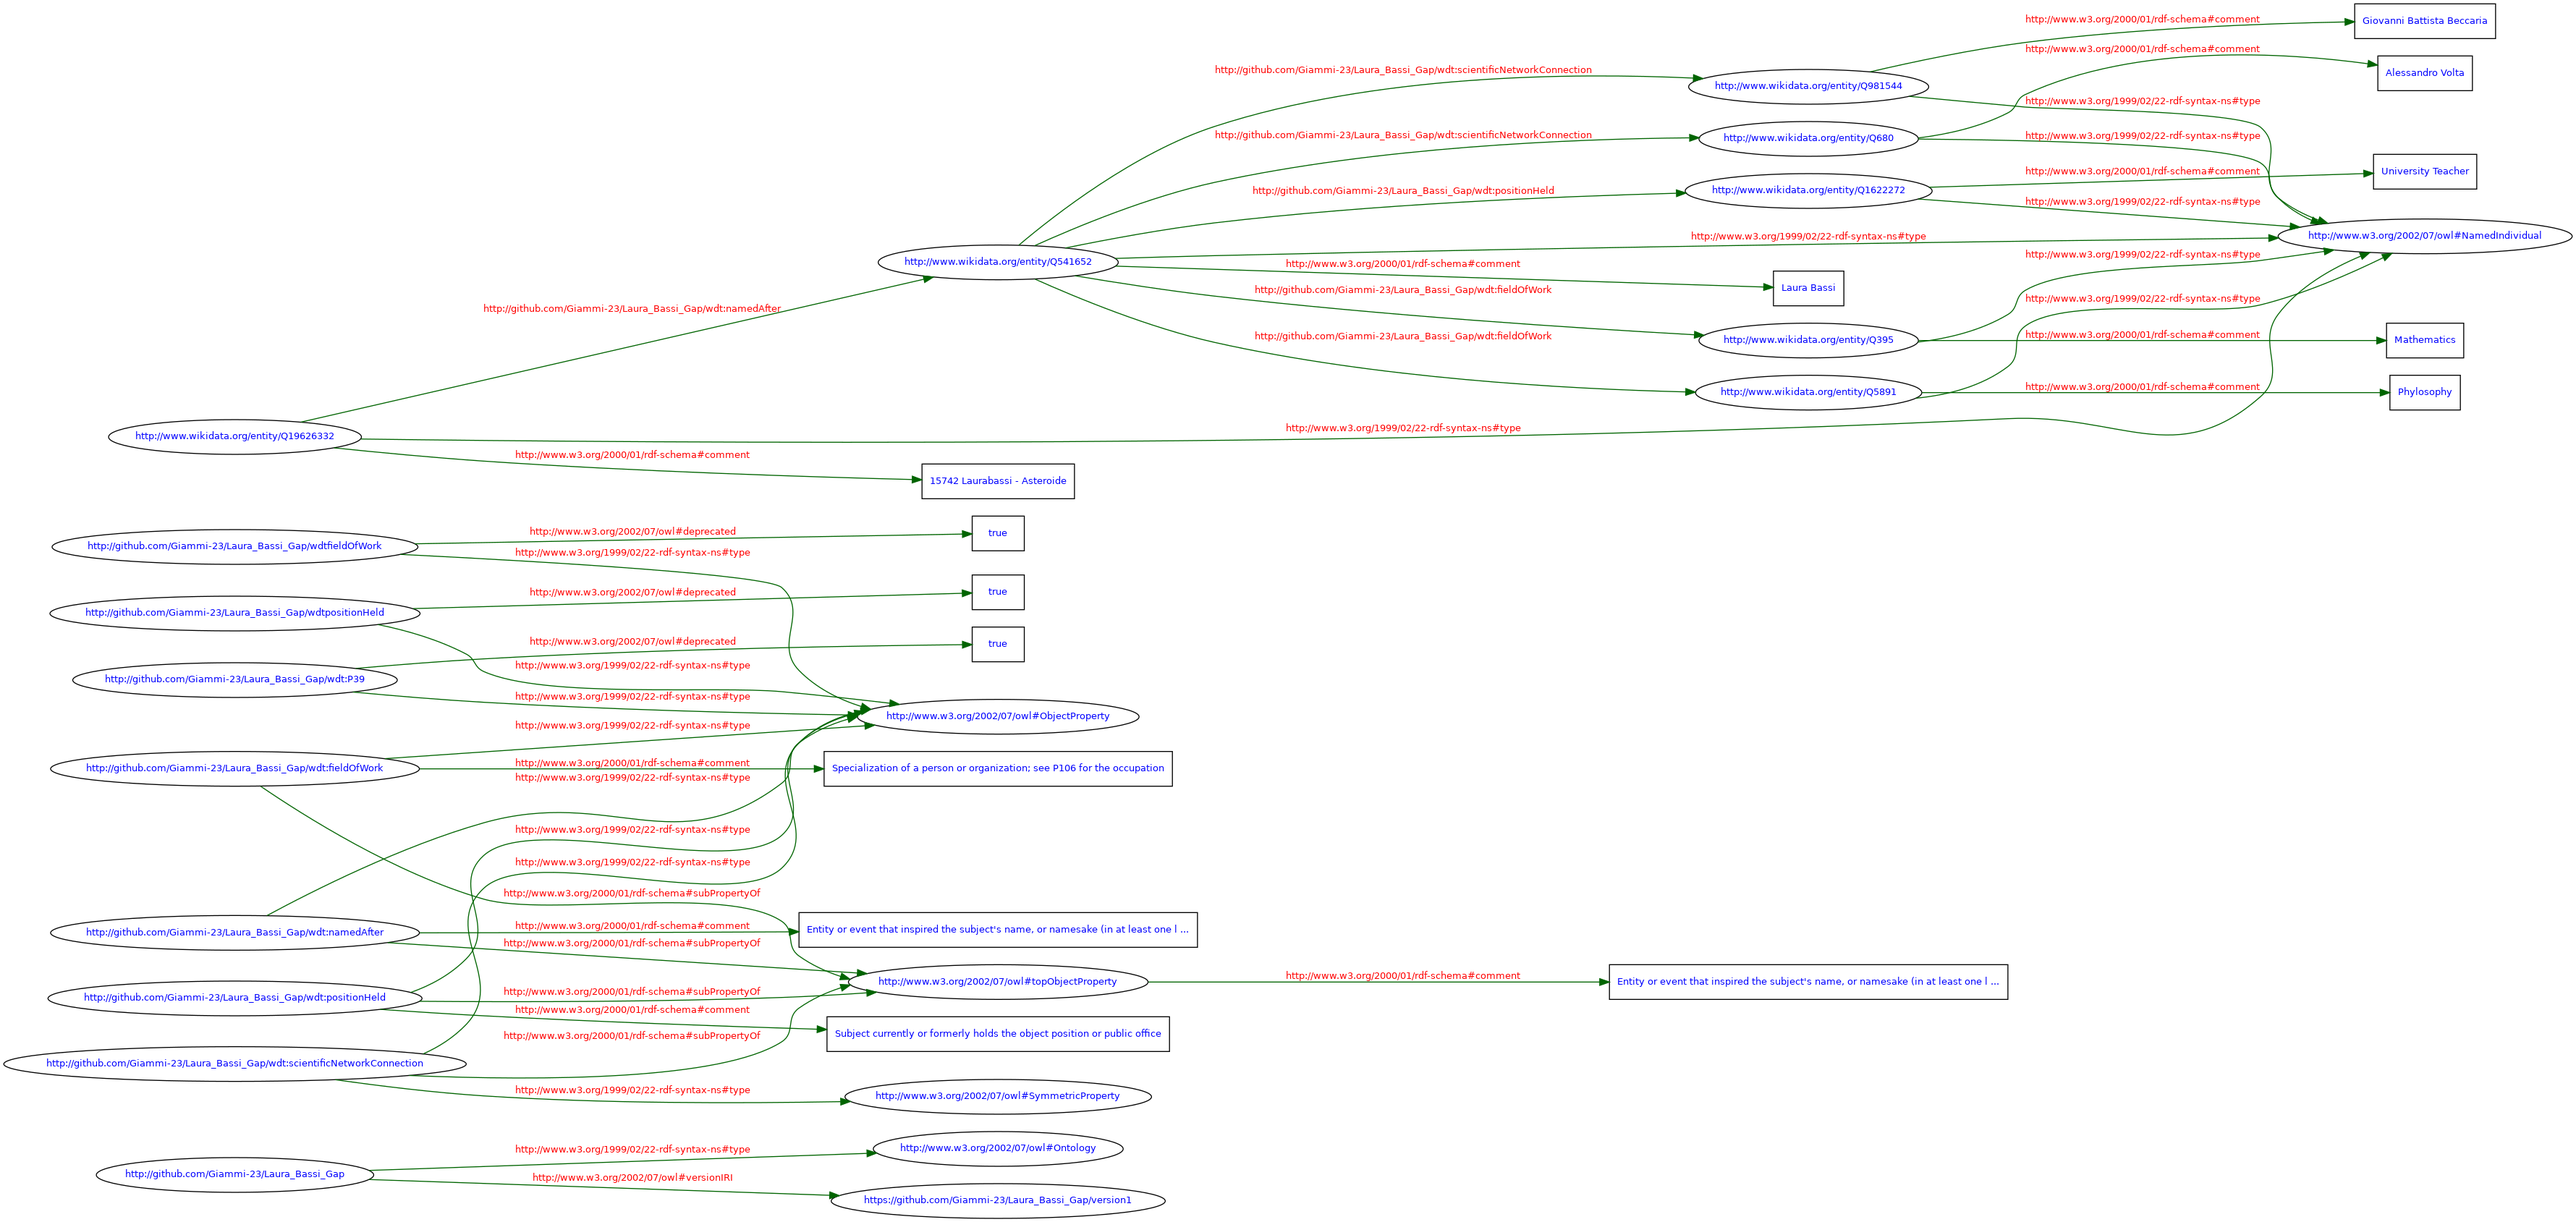
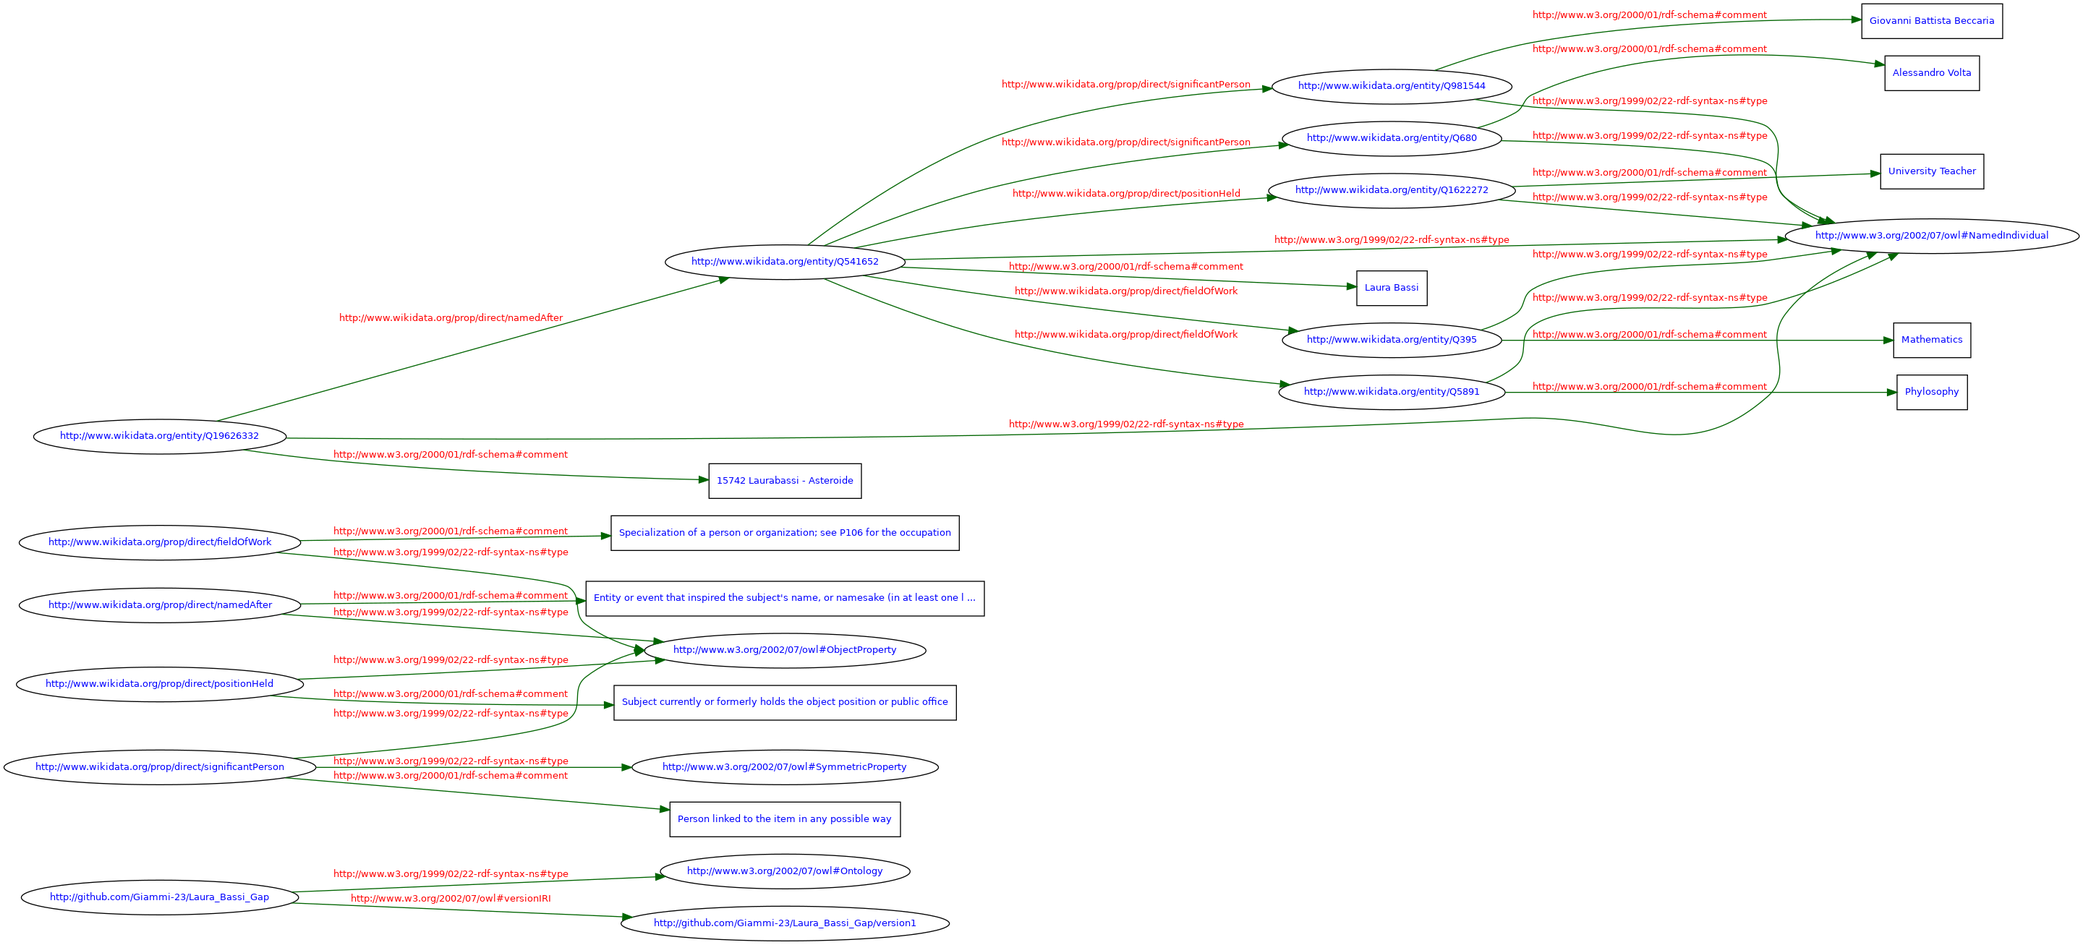
Correzioni piccoli refusi triple

diff --git a/tripla3.html b/tripla3.html
@@ -107,11 +107,11 @@
         <p>Dopo aver analizzato e studiato approfonditamente le risposte fornite dai due LLM attraverso la tecnica del Chain-of-Thought, il nostro team ha costruito la soluzione definitiva per colmare il gap relativo alla rete scientifica di Laura Bassi, sempre adottando un approccio di validazione critica:</p>
         <div class="code-container">
             <pre><code>
-                :Laura_Bassi :scientificNetworkConnection :Alessandro_Volta .
-                wd:Q541652 wdt:PXX wd:Q680 .
+                :Laura_Bassi :significantPerson :Alessandro_Volta .
+                wd:Q541652 wdt:P3342 wd:Q680 .
 
-                :Laura_Bassi :scientificNetworkConnection :Giovanni_Beccaria .
-                wd:Q541652 wdt:PXX wd:Q223723 .
+                :Laura_Bassi :significantPerson :Giovanni_Beccaria .
+                wd:Q541652 wdt:P3342 wd:Q223723 .
             </code></pre>
         </div>
     </main>

diff --git a/en/tripla3_en.html b/en/tripla3_en.html
@@ -129,11 +129,11 @@
 
         <div class="code-container">
             <pre><code>
-:Laura_Bassi :scientificNetworkConnection :Alessandro_Volta .
-wd:Q541652 wdt:PXX wd:Q680 .
+:Laura_Bassi :significantPerson :Alessandro_Volta .
+wd:Q541652 wdt:P3342 wd:Q680 .
 
-:Laura_Bassi :scientificNetworkConnection :Giovanni_Beccaria .
-wd:Q541652 wdt:PXX wd:Q223723 .
+:Laura_Bassi :significantPerson :Giovanni_Beccaria .
+wd:Q541652 wdt:P3342 wd:Q223723 .
             </code></pre>
         </div>
     </main>
